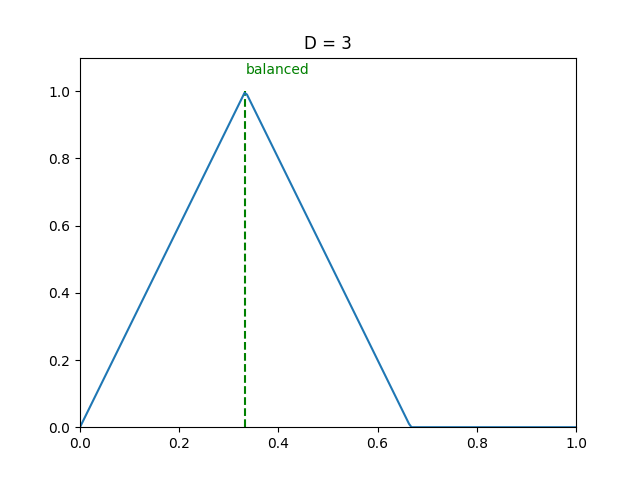
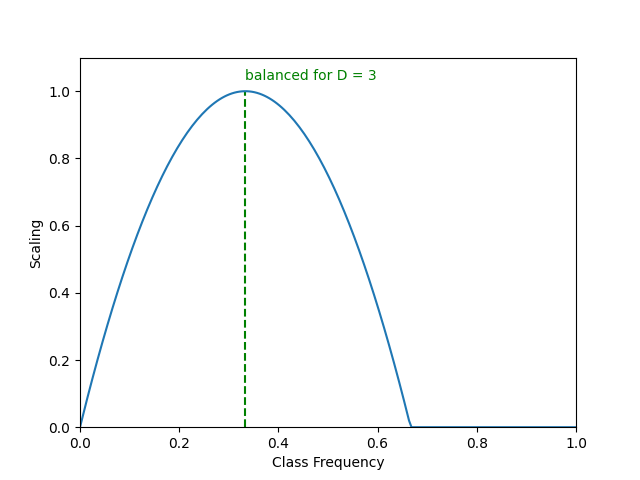
scaling file finished, threshold next then acc

diff --git a/99_article/new_visuals/exp_scaling.py b/99_article/new_visuals/exp_scaling.py
@@ -7,84 +7,78 @@ import re
 
 # visual
 import matplotlib
-#matplotlib.use('agg')
 import matplotlib.pyplot as plt
-#matplotlib.pyplot.switch_backend('agg')
 import seaborn as sns
+
+# source
+import local_utils as lu
 
 
 def get_args():
 
     parser = argparse.ArgumentParser()
-    parser.add_argument('--root', default='02_warmup', type=str)
+
+    parser.add_argument('--data', default='cifar', type=str)
     parser.add_argument('--n_classes', default=10, type=int)
-    parser.add_argument('--dba', default=0, type=int)
+    parser.add_argument('--d_rounds', default=None, type=int)
+
+    parser.add_argument('--n_rounds', default=50, type=int)
     parser.add_argument('--n_malicious', default=1, type=int)
-    parser.add_argument('--n_rounds', default=100, type=int)
     parser.add_argument('--m_start', default=1, type=int)
+    parser.add_argument('--dba', default=0, type=int)
+
     parser.add_argument('--alpha', default=10000, type=int)
     parser.add_argument('--alpha_val', default=10000, type=int)
-    parser.add_argument('--warmup', default=0, type=int)
-    parser.add_argument('--d_rounds', default=None, type=int)
 
     return parser.parse_args()
 
 
-""" Helper functions """
-def get_thresh_unscaled(x):
-
-    out = []
-    for i in range(len(x)):
-        temp = x[:(i + 1)]
-        out.append(np.mean(temp[np.argmin(temp):]))
-
-    return out
-
-
-def get_quantiles(r, values):
-
-    u = np.unique(r)
-    u.sort()
-
-    q1, q3 = [], []
-    for i in u:
-        temp = values[r == i]
-        temp_l = np.quantile(temp, .25)
-        q1.append(temp_l)
-        temp_u = np.quantile(temp, .75)
-        q3.append(temp_u)
-
-    return np.array(q1), np.array(q3)
-
-
+""" Scaling figure """
 def plot_scaling(
-    data_val, data_user,
-    warmup, d_rounds,
-    path, suffix,
-    n_classes
+    data_val, data_user,  # ----- class distances for all users
+    d_rounds,  # ---------------- output plot zoom
+    path, suffix=''  # ---------- input and output location
     ):
 
-    # validation user
+    """ Documentation
+    Function: Create plot for understanding effectiveness of class frequency scaling
+    1. Validation threshold w/ and w/o class frequency scaling
+    2. Benign user upper and lower bounds on max class distance
+    Usage: Visualize importance of scaling for article
+    """
+
+    """ Validation Manipulation
+    1. Last row for next round threshold - never used
+    2. First row includes scaling information - round index -1
+    3. Compute threshold w/ and w/o class frequency scaling
+    """
     data_val, data_user = np.array(data_val), np.array(data_user)
     data_val = data_val[:-1]  # remove last validation check for next iteration never run
     data_val, scaling = data_val[1:], data_val[0, 1:]  # remove scaling row, remove round from scaling
     data_val_r, data_val_values = data_val[:, 0], data_val[:, 1:]  # seperate round from data
 
+    # threshold without class frequency scaling
     data_val_max = data_val_values.max(axis=1)
-    data_val_max_thresh = get_thresh_unscaled(data_val_max)
+    data_val_max_thresh = lu.min_mean_smooth(data_val_max, scale=2)
+
+    # with class frequency scaling
     data_val_scaled = data_val_values * scaling
     data_val_scaled_max = data_val_scaled.max(axis=1)
-    data_val_scaled_max_thresh = get_thresh_unscaled(data_val_scaled_max)
+    data_val_scaled_max_thresh = lu.min_mean_smooth(data_val_scaled_max, scale=2)
 
     data_val_max_thresh = np.maximum(np.minimum(data_val_max_thresh, 1), 0)
     data_val_scaled_max_thresh = np.maximum(np.minimum(data_val_scaled_max_thresh, 1), 0)
 
-    # benign users
+    """ Benign Manipulation
+    1. Subset to benign from all users
+    2. Compute each round quantiles for summarizing values for plotting
+    """
     data_benign = data_user[data_user[:, 0] == 0, 1:]  # subset to benign users, remove malicious index column
     data_benign_r, data_benign_values = data_benign[:, 0], data_benign[:, 1:]  # seperate round column from data
     data_benign_max = data_benign_values.max(axis=1)
-    data_benign_max_q1, data_benign_max_q3 = get_quantiles(data_benign_r, data_benign_max)
+    data_benign_max_q1, data_benign_max_q3 = lu.get_quantiles(data_benign_r, data_benign_max)
 
+    # quantile computation
     benign_upper = data_benign_max_q3 + 1.5 * (data_benign_max_q3 - data_benign_max_q1)
     benign_upper = np.maximum(np.minimum(benign_upper, 1), 0)
     benign_lower = data_benign_max_q1 - 1.5 * (data_benign_max_q3 - data_benign_max_q1)
@@ -98,21 +92,25 @@ def plot_scaling(
     plt.plot(data_val_r + 1, benign_upper, '--b')
     plt.plot(data_val_r + 1, benign_lower, '--b')
 
-    plt.plot(data_val_r + 1, 2 * data_val_max_thresh, '-r')
-    plt.plot(data_val_r + 1, 2 * data_val_scaled_max_thresh, '-g')
+    plt.plot(data_val_r + 1, data_val_max_thresh, '-r')
+    plt.plot(data_val_r + 1, data_val_scaled_max_thresh, '-g')
 
     plt.legend(labels=[
-        'benign max ks: q3 + 1.5 * IQR',
-        'benign max ks: q1 - 1.5 * IQR',
+        'benign: q3 + 1.5 * IQR',
+        'benign: q1 - 1.5 * IQR',
         'unscaled threshold',
         'scaled threshold'
     ])
 
     if path is not None:
-        plt.savefig(os.path.join(path, 'visuals', f'scaling{suffix}--d_rounds{d_rounds}.png'), bbox_inches='tight')
+        plt.savefig(
+            os.path.join(
+                path, 'visuals', f'scaling{suffix}--d_rounds{d_rounds}.png'
+            ),
+            bbox_inches='tight'
+        )
 
     plt.show()
-    plt.close()
 
 
 """ Main function HERE """
@@ -124,42 +122,33 @@ def main():
         args.d_rounds = args.n_rounds
 
     path = os.path.join(
-        f'/home/joe/03_federated/{args.root}',
+        f'/home/joe/03_federated/{args.data}_{args.n_classes}',
         ('distributed' if args.dba else 'centralized'),
         'alpha' + str(args.alpha) + '--alpha_val' + str(args.alpha_val)
     )
-    suffix = '--n_malicious' + str(args.n_malicious) + '--m_start' + str(args.m_start)
+    print(path)
 
     if not os.path.exists(os.path.join(path, 'visuals')):
         os.makedirs(os.path.join(path, 'visuals'))
 
-    # experiments
-    titles = ['No Attack or Defense', 'Attack Only', 'Defense Only', 'Attack and Defense']
-    values = [
-        (args.n_rounds + 1, args.n_rounds + 1),  # no attack or defense
-        (args.n_rounds + 1, args.m_start),  # attack only
-        (1, args.n_rounds + 1),  # defense only
-        (1, args.m_start)  # attack and defense
-   ]
-
 
     """ Defense Plot - Scaling """
     # import no attack nor defense data
-    (i, j) = values[0]
     to_reads = [
         f.path for f in os.scandir(path) if re.search(
             f'n_rounds{args.n_rounds}--d_start{args.n_rounds + 1}--m_start{args.n_rounds + 1}', f.path
         )
     ]
+    print([f.path for f in os.scandir(path)])
 
     temp_val = np.load(os.path.join(to_reads[0], 'data/output_val_ks.npy'), allow_pickle=True)
     temp_user = np.load(os.path.join(to_reads[0], 'data/output_user_ks.npy'), allow_pickle=True)
 
     plot_scaling(
-        temp_val, temp_user,
-        args.warmup, args.d_rounds,
-        path, suffix,
-        args.n_classes
+        temp_val,
+        temp_user,
+        args.d_rounds,
+        path
     )
 
 

diff --git a/99_article/new_visuals/local_utils.py b/99_article/new_visuals/local_utils.py
@@ -25,6 +25,32 @@ def min_mean_smooth(
     return scale * np.array(output)
 
 
+def quadratic_scaling(
+    proportion,  # ----- proportion of class to compute scaling coef
+    num_classes  # ----- size of classification problem
+):
+
+    """
+    Function: Return simple scaling coef given class proportion
+        No observations -> 0
+        Balanced proportion -> 1
+        2 * Balanced proportion -> 0
+        Any value in between is scaled linearly based on location
+    Usage: Create visual to show scaling given different proportions
+    """
+
+    B = 1 / num_classes  # balanced proportion of labels
+
+    # scale all values further than double balanced to 0
+    index = (proportion <= 2 * B)
+    output = np.zeros_like(proportion)
+
+    # scale values based on how far they are from balanced
+    output[index] = -1 / (B ** 2) * proportion[index] * (proportion[index] - 2 * B)
+
+    return output
+
+
 """ Helper function """
 def get_quantiles(
     rounds,  # ------- vector of the communication rounds for the values
@@ -42,7 +68,7 @@ def get_quantiles(
     """
 
     # get increasing array of unique rounds
-    unique_rounds = np.unique(r)
+    unique_rounds = np.unique(rounds)
     unique_rounds.sort()
 
     # iterate unique rounds and store quantiles
@@ -50,8 +76,8 @@ def get_quantiles(
     for r in unique_rounds:
 
         # determine rounds to calculate quantiles over and subset values
-        rounds = (unique_rounds <= r) if running else (unique_rounds == r)
-        sub_values = values[rounds]
+        sub_rounds = (rounds <= r) if running else (rounds == r)
+        sub_values = values[sub_rounds]
 
         # compute quantiles for subsetted values
         q1.append(np.quantile(sub_values, 0.25))

diff --git a/99_article/new_visuals/ext_scaling.py b/99_article/new_visuals/ext_scaling.py
@@ -2,33 +2,8 @@
 import numpy as np
 import matplotlib.pyplot as plt
 
-
-# helper
-def scaling(
-    proportion,  # ----- proportion of class to compute scaling coef
-    num_classes  # ----- size of classification problem
-):
-
-    """
-    Function: Return simple scaling coef given class proportion
-        No observations -> 0
-        Balanced proportion -> 1
-        2 * Balanced proportion -> 0
-        Any value in between is scaled linearly based on location
-    Usage: Create visual to show scaling given different proportions
-    """
-
-    B = 1 / num_classes  # balanced proportion of labels
-
-    # scale all values further than double balanced to 0
-    index = (proportion <= 2 * B)
-    output = np.zeros_like(proportion)
-
-    # scale values based on how far they are from balanced
-    output[index] = (B - np.abs(B - proportion[index])) / B
-
-    return output
-
+# source
+import local_utils as lu
 
 """ Main function HERE """
 def main():
@@ -38,12 +13,13 @@ def main():
 
     # create visual for k-way classification problem
     plt.figure()
-    plt.plot(x, scaling(x, num_classes))
+    plt.plot(x, lu.quadratic_scaling(x, num_classes))
     plt.ylim(0, 1.1)
+    plt.ylabel('Scaling')
     plt.xlim(0, 1)
+    plt.xlabel('Class Frequency')
     plt.vlines((1 / num_classes), 0, 1, 'g', 'dashed')
-    plt.text((1 / num_classes), 1.05, 'balanced', c='g')
-    plt.title(f'D = {num_classes}')
+    plt.text((1 / num_classes), 1.033, f'balanced for D = {num_classes}', c='g')
 
     plt.savefig('visuals/scaling.png')
     plt.show()
